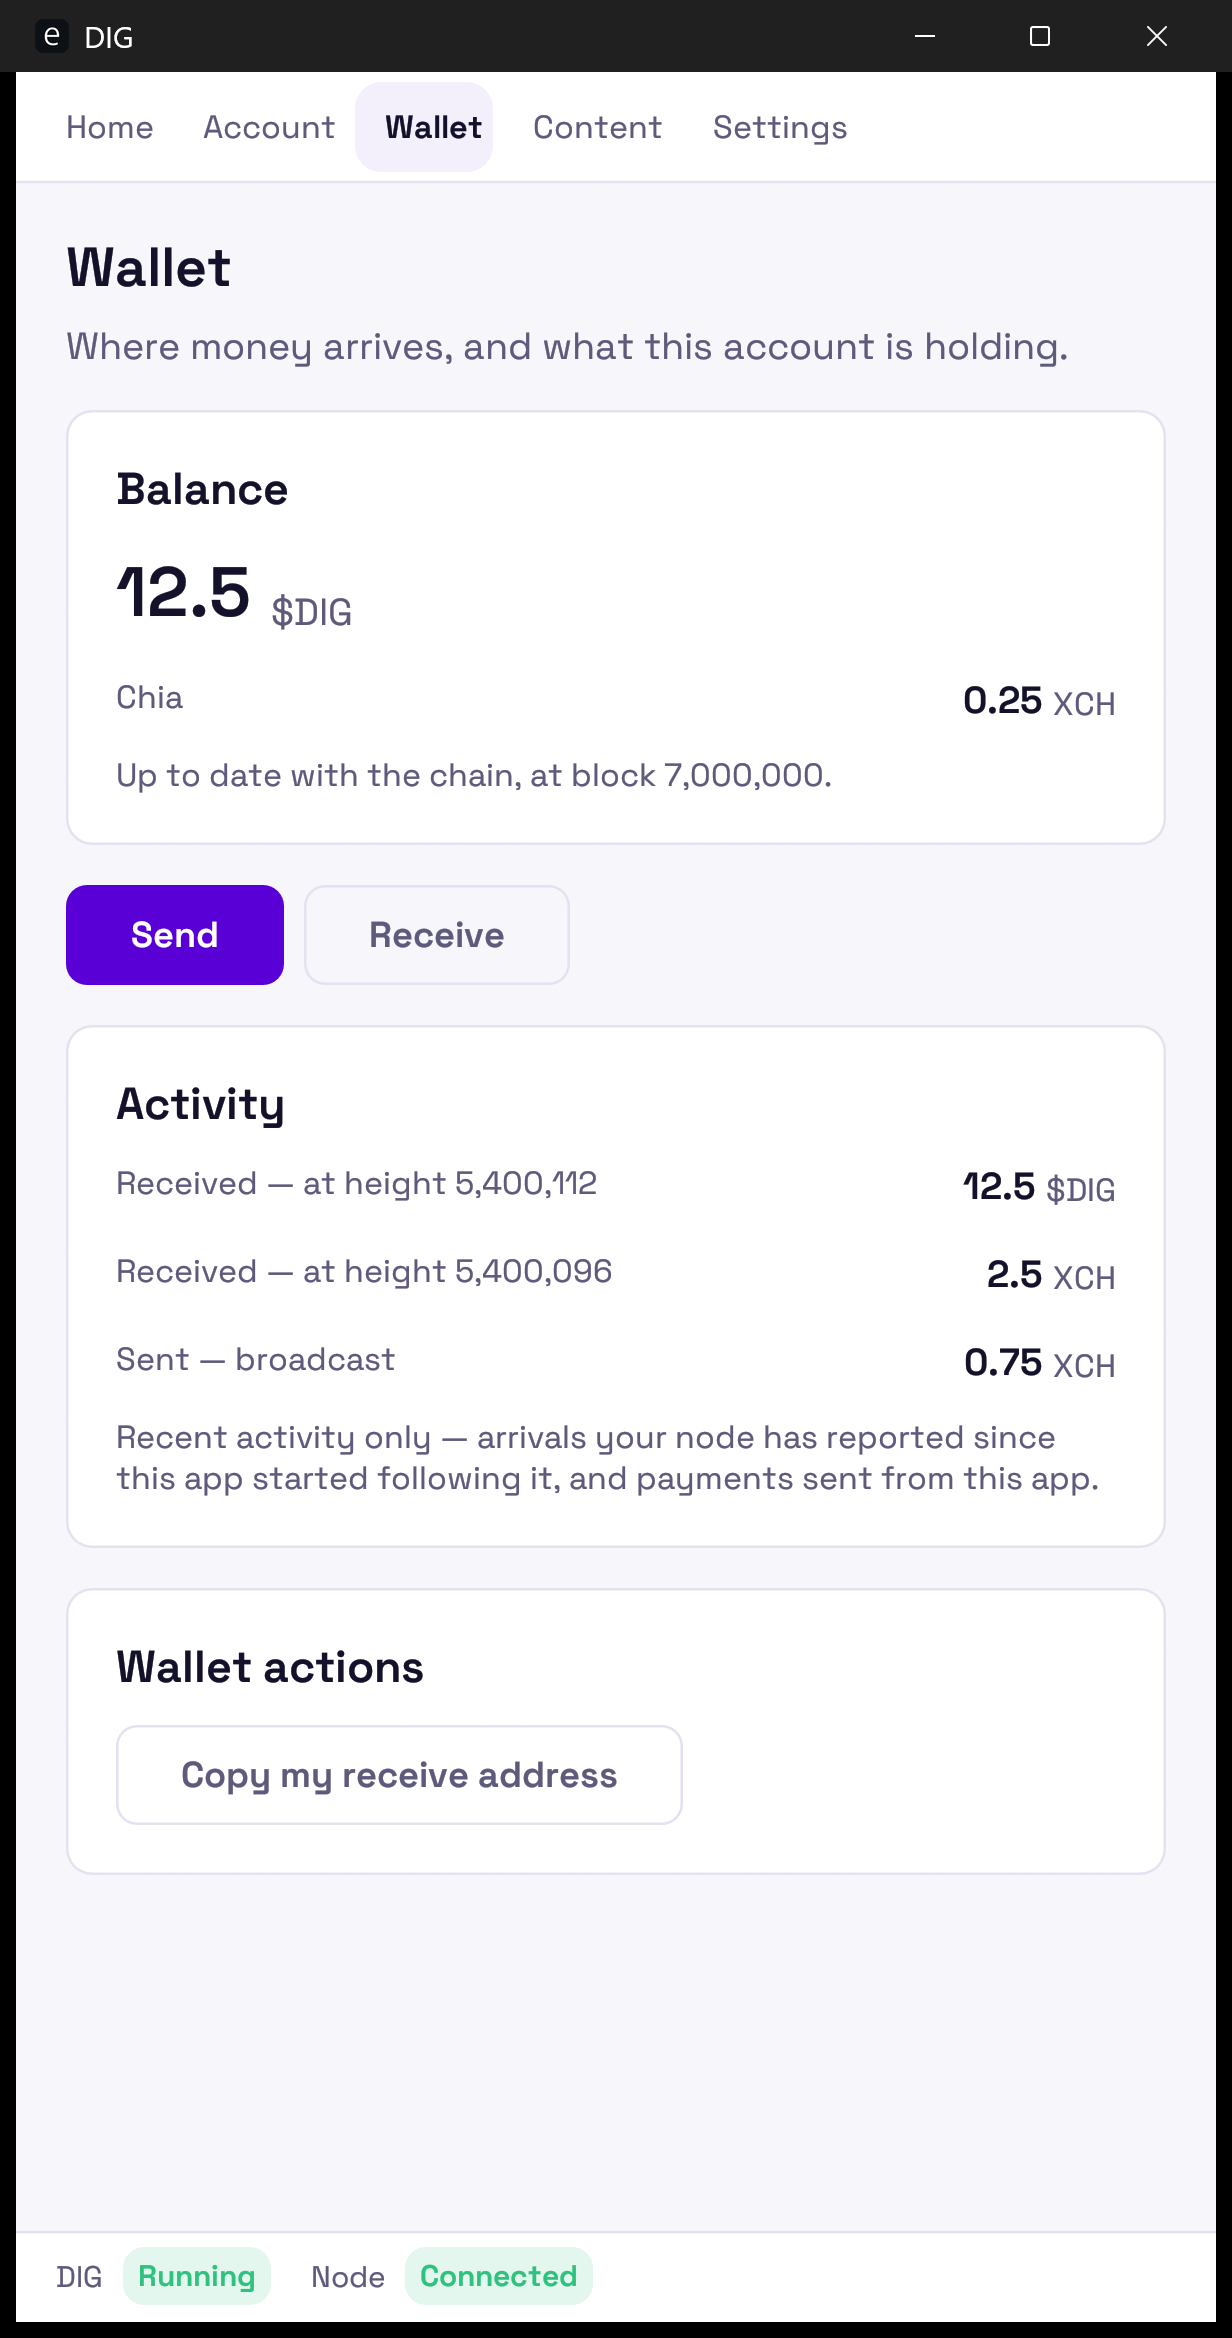
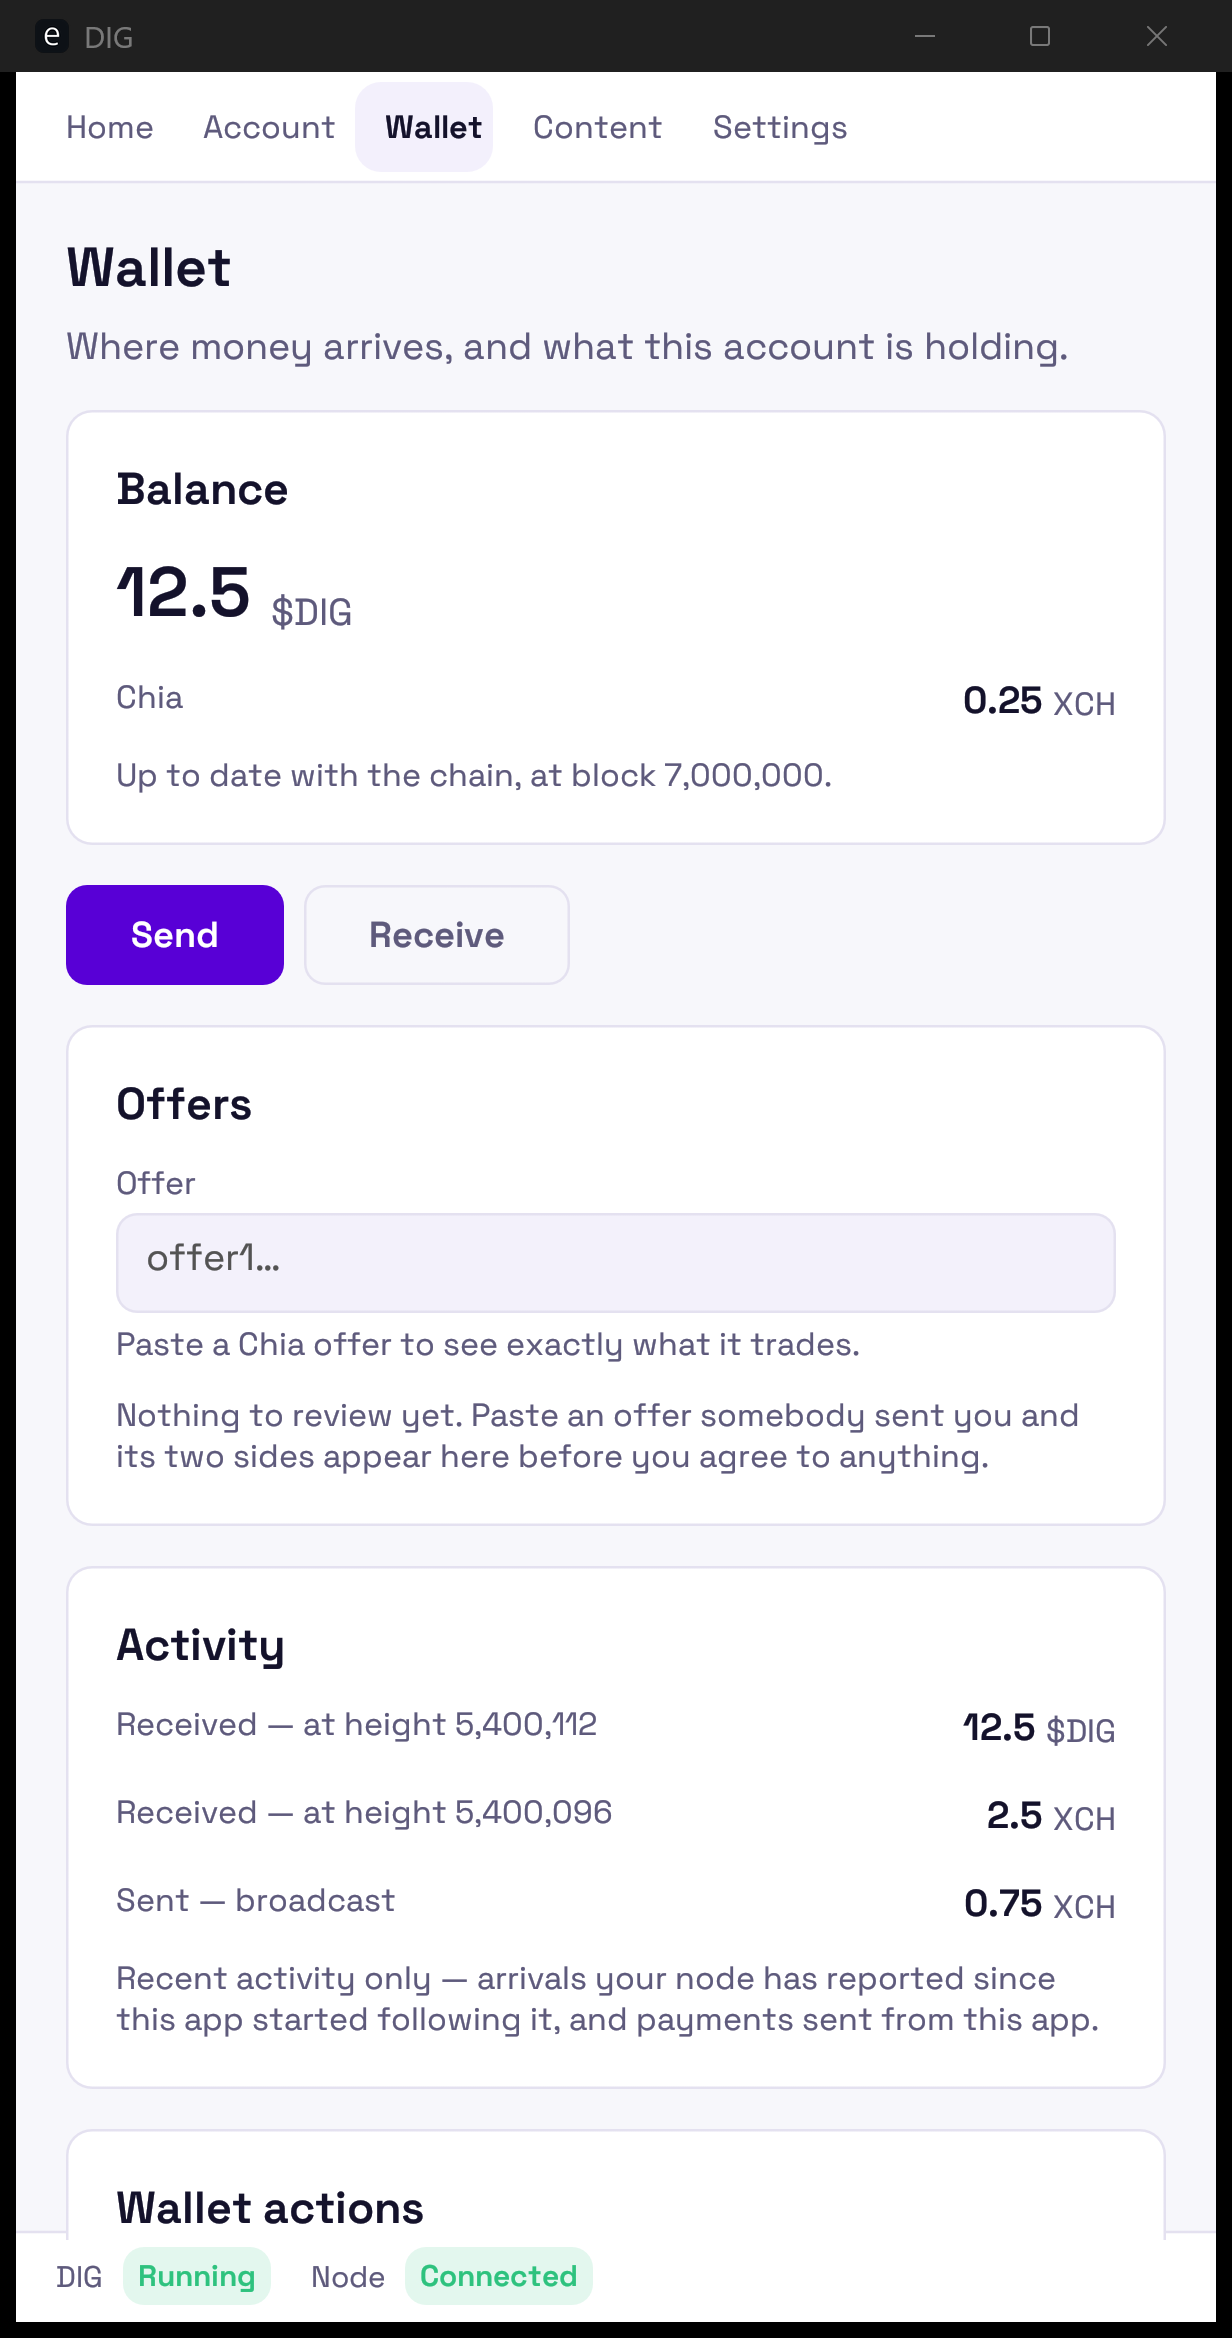
feat(wallet): paste, summarize and take Chia offers

diff --git a/SPEC.md b/SPEC.md
@@ -2544,6 +2544,42 @@ the chain peak (`TransferPlan::pushed_now`) → **push** the SIGNED bundle
   payment leave with no confirmation.
 - CAT / `$DIG` sending is not part of this flow.
 
+#### 3.3a2 Taking a Chia offer (normative)
+
+The Wallet tab reads and takes Chia offers. `dig-offers` is the ONLY offer authority: dig-app MUST
+NOT decode, summarize, assemble or combine offer bytes itself.
+
+- **What is shown MUST derive from the parser, on the bytes that would be broadcast.** A
+  `wallet::offer::ReviewedOffer` owns an `offer1…` string and the `dig_offers::summarize` of that same
+  string; `ReviewedOffer::read` MUST be its only constructor. The take path MUST be handed that value
+  — never a separately-carried offer string — so the terms displayed and the swap settled cannot
+  diverge.
+- **Both sides MUST be named (NC-14).** The surface states what arrives and what leaves as two
+  labelled lists, in the taker's direction: `summarize().offered` is what the taker RECEIVES and
+  `.requested` is what the taker PAYS. A single net figure MUST NOT be shown — a take changes
+  ownership, and a difference describes the act while hiding half of it.
+  - This is load-bearing because the custody ceremony downstream shows only the PAID side: the
+    received leg returns to the taker's own change address and is dropped as change, and the
+    settlement commitment nets out within the bundle. The offer card is therefore the only surface on
+    which the whole trade is visible, and it is where consent is actually given.
+- **The order MUST be: refuse, build, sign, combine, push.** `wallet::offer::take_permitted_by` refuses
+  a `CustodyPolicy::Vault` profile BEFORE a spend is built, because dig-account denies a vault outflow
+  to the settlement puzzle by name; the refusal MUST reach the control as a stated reason, never a
+  bare disabled control and never a failure at signing time. Then `dig_offers::take_build`,
+  `MoneyPath::authorize_and_sign`, `dig_offers::take_combine`, and the node's push.
+- **Every take is authorized as `SpendOpClass::Undeclared`**, which can never auto-approve, so a take
+  always reaches the human. A swap is irreversible and moves assets no mojo allowance can weigh, so
+  there is no configured bound under which approving one unattended would be honest.
+- **One take at a time**, refused structurally. A second take of the same offer while the first is
+  settling can only fail, after a person has confirmed it.
+- **A broadcast MUST NOT be reported as a settled swap.** `TakeProgress::Broadcast` states that a node
+  accepted the bundle and names it; whether the swap settled is a chain read, and the centralized
+  progress modal — raised by ANY broadcast, with no caller opt-in — is what follows it.
+- **A funding read that FAILED MUST NOT be read as an empty wallet** (`TakeError::FundsUnreadable`).
+  An unanswered read has made no claim about the money.
+- MAKING and CANCELLING offers are not part of this flow. XCH-funded takes only: a CAT-funded take
+  needs each coin's lineage proof, which the coins read does not carry.
+
 #### 3.3b The send surface (normative)
 
 The Wallet tab offers the send, and `dig_app_core::wallet::sending` is the only place that decides

diff --git a/crates/dig-app-core/docs/wallet-cache/README.md b/crates/dig-app-core/docs/wallet-cache/README.md
@@ -46,6 +46,11 @@ will be ignored.
 | `wallet-light-timedout.png` | 960 | 0.8 | 2432 × 2488 | A node that connected and did not answer in time: *"Not known — your node did not answer in time. Nothing is wrong with your account, and the figure appears on its own once a read finishes…"* Deliberately not *"no node is running"*, which is the sentence a live user was wrongly shown (#2325). Again no numeral under `Balance`. |
 | `wallet-light-locked.png` | 960 | 1.0 | 2432 × 2488 | A sealed account. `Receive` carries no code and no address, only the sentence saying the address is withheld rather than guessed while the keys are sealed. `Balance` reads *"Not known — your account is locked…"*. The tab's one verb is disabled AND relabelled `Copy my receive address (unlock first)`, so the reason travels with the control. The pane is short enough to fit at 1.0. |
 
+| `wallet-light-offer.png` | 960 | 0.8 | 2432 × 2488 | The `Offers` card with a REAL offer read. The field holds the `offer1…` string; under it **You receive — XCH 0.0000000004** and **You pay — XCH 0.000000001**, two figures that differ, so a swapped mapping could not produce this picture. `Take this offer` is the card's one primary control. Nothing shows a net figure: a swap changes ownership, and naming only the difference would hide half of what is being agreed to (NC-14). |
+| `wallet-dark-offer.png` | 960 | 0.8 | 2432 × 2488 | The same card in dark. Same offer, same two figures, the primary control carrying its glow against the dark surface. |
+| `wallet-light-offer-480.png` | 480 | 0.7 | 1232 × 2338 | `SHELL_MIN`. The offer string truncates inside the field rather than reflowing the card, the two sides keep their headings, and the take control stays full-size and reachable without a horizontal scroll. |
+| `wallet-light-offer-locked.png` | 960 | 0.8 | 2432 × 2488 | The same offer on a SEALED account. The terms are still fully readable — reading an offer needs no key — while `Take this offer` is disabled with its reason directly beneath it: *"Unlock your account to take an offer — taking one spends your coins, and that needs your key."* A greyed control whose condition is unstated is the defect `professional-ui` names; this is what it looks like fixed. |
+
 ## Cache
 
 | File | Logical width | Zoom | Physical | What is in the image |
